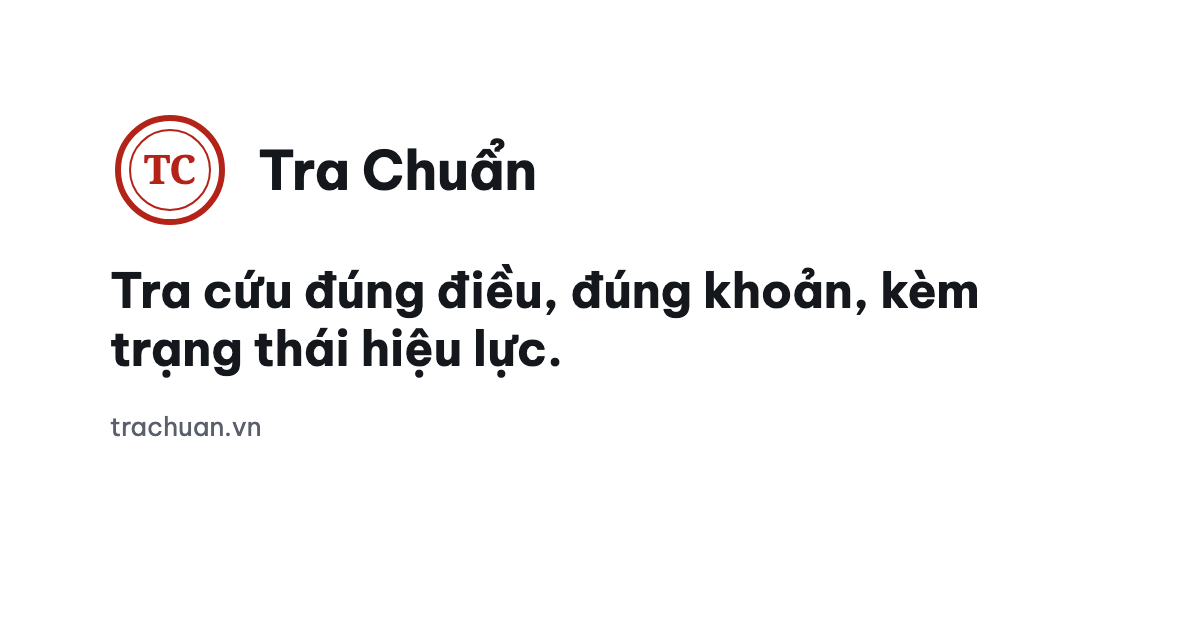
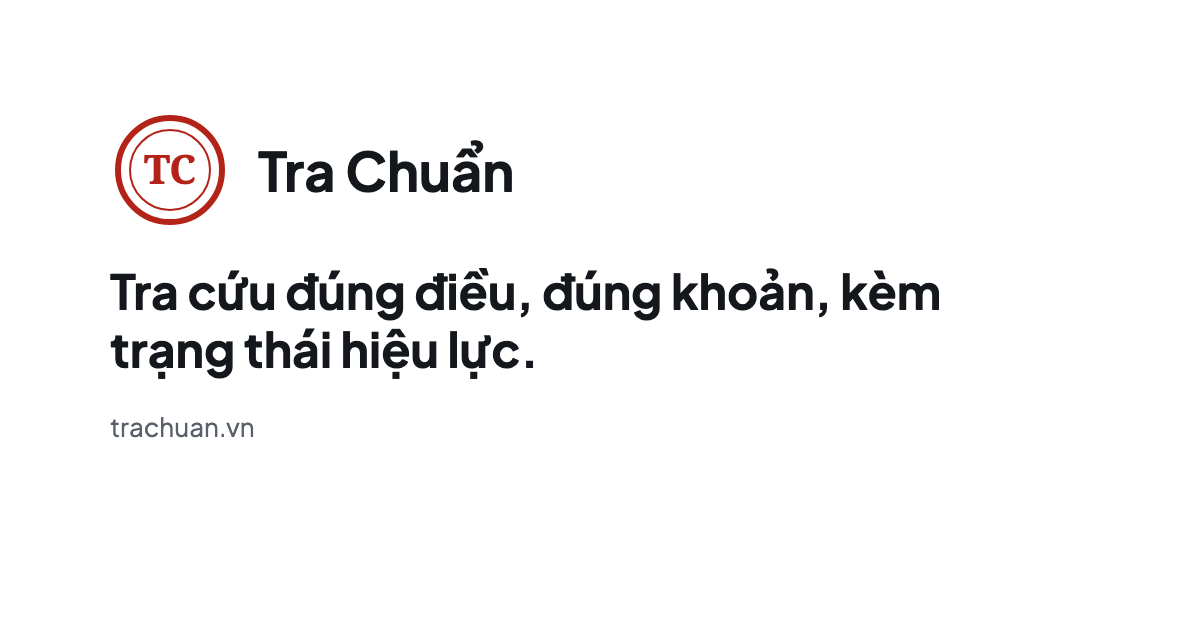
web, oauth: drop Be Vietnam Pro after the dense-screen screenshots were accepted

Changed region(s): [[0.0925, 0.4222, 0.8325, 0.6032], [0.2158, 0.2111, 0.4625, 0.3016], [0.0925, 0.6635, 0.2158, 0.6937]]

diff --git a/apps/web/public/static-page.css b/apps/web/public/static-page.css
@@ -1,7 +1,6 @@
 @font-face { font-family: PlusJakartaSans; src: url('/fonts/plus-jakarta-sans-var.woff2') format('woff2'); font-weight: 400 800; font-display: swap; }
-@font-face { font-family: BeVietnam; src: url('/fonts/be-vietnam-pro-var.woff2') format('woff2'); font-weight: 400 700; font-display: swap; }
 @font-face { font-family: NotoSerif; src: url('/fonts/noto-serif-var.woff2') format('woff2'); font-weight: 400 700; font-display: swap; }
-:root { --color-page: #FFFFFF; --color-card: #FFFFFF; --color-mist: #F1F4FA; --color-sky: #E3EAF8; --color-ink: #0F1524; --color-muted: #4D556A; --color-line: #E1E5EE; --color-control: #6F7A9B; --color-primary-fill: #1E3A8A; --color-primary-hover: #172F70; --color-primary: #1E3A8A; --color-on-primary: #FFFFFF; --color-primary-hint: #D3DCF6; --color-hero-field: #FFFFFF; --color-hero-field-ink: #0F1524; --color-hero-placeholder: #4D556A; --color-hero-pill: #FFFFFF; --color-hero-pill-ink: #1E3A8A; --color-footer: #0F1524; --color-footer-ink: #FFFFFF; --color-footer-muted: #C3CADB; --color-ring: #0F1524; --color-ring-inverse: #FFFFFF; --color-footer-ring: #FFFFFF; --color-seal: #B42318; --color-seal-footer: #E5604F; --color-danger: #B42318; --color-danger-bg: #FEF3F2; --color-danger-line: #F3C7C1; --color-highlight: #FFF1A8; --color-highlight-ink: #0F1524; --color-note-warn: #FDF6E9; --color-ink-in-force: #0B6E63; --color-stamp-in-force-bg: #E3F4F0; --color-ink-partial: #8A4B08; --color-stamp-partial-bg: #FDF1DC; --color-ink-not-yet: #1D4ED8; --color-stamp-not-yet-bg: #E4ECFE; --color-ink-expired: #4A5160; --color-stamp-expired-bg: #ECEEF1; --color-stamp-neutral-border: #6B7280; --font-sans: PlusJakartaSans, BeVietnam, sans-serif; --font-serif: NotoSerif, serif; }
+:root { --color-page: #FFFFFF; --color-card: #FFFFFF; --color-mist: #F1F4FA; --color-sky: #E3EAF8; --color-ink: #0F1524; --color-muted: #4D556A; --color-line: #E1E5EE; --color-control: #6F7A9B; --color-primary-fill: #1E3A8A; --color-primary-hover: #172F70; --color-primary: #1E3A8A; --color-on-primary: #FFFFFF; --color-primary-hint: #D3DCF6; --color-hero-field: #FFFFFF; --color-hero-field-ink: #0F1524; --color-hero-placeholder: #4D556A; --color-hero-pill: #FFFFFF; --color-hero-pill-ink: #1E3A8A; --color-footer: #0F1524; --color-footer-ink: #FFFFFF; --color-footer-muted: #C3CADB; --color-ring: #0F1524; --color-ring-inverse: #FFFFFF; --color-footer-ring: #FFFFFF; --color-seal: #B42318; --color-seal-footer: #E5604F; --color-danger: #B42318; --color-danger-bg: #FEF3F2; --color-danger-line: #F3C7C1; --color-highlight: #FFF1A8; --color-highlight-ink: #0F1524; --color-note-warn: #FDF6E9; --color-ink-in-force: #0B6E63; --color-stamp-in-force-bg: #E3F4F0; --color-ink-partial: #8A4B08; --color-stamp-partial-bg: #FDF1DC; --color-ink-not-yet: #1D4ED8; --color-stamp-not-yet-bg: #E4ECFE; --color-ink-expired: #4A5160; --color-stamp-expired-bg: #ECEEF1; --color-stamp-neutral-border: #6B7280; --font-sans: PlusJakartaSans, sans-serif; --font-serif: NotoSerif, serif; }
 @media (prefers-color-scheme: dark) {
   :root { --color-page: #0C1222; --color-card: #161E33; --color-mist: #131A2E; --color-sky: #1B2A52; --color-ink: #EEF1F8; --color-muted: #A3ABC2; --color-line: #283048; --color-control: #6F7DA3; --color-primary-fill: #3451B2; --color-primary-hover: #2C469C; --color-primary: #9DB4F5; --color-on-primary: #FFFFFF; --color-primary-hint: #D3DCF6; --color-hero-field: #EEF1F8; --color-hero-field-ink: #0F1524; --color-hero-placeholder: #4D556A; --color-hero-pill: #FFFFFF; --color-hero-pill-ink: #1E3A8A; --color-footer: #131A2E; --color-footer-ink: #EEF1F8; --color-footer-muted: #A3ABC2; --color-ring: #9DB4F5; --color-ring-inverse: #FFFFFF; --color-footer-ring: #9DB4F5; --color-seal: #E5604F; --color-seal-footer: #E5604F; --color-danger: #E5604F; --color-danger-bg: #2A1412; --color-danger-line: #5A2620; --color-highlight: #4A3F12; --color-highlight-ink: #F5ECC0; --color-note-warn: #2B2110; --color-ink-in-force: #5ED0BD; --color-stamp-in-force-bg: #0F2C28; --color-ink-partial: #F0B565; --color-stamp-partial-bg: #33230B; --color-ink-not-yet: #9DB8FF; --color-stamp-not-yet-bg: #16224A; --color-ink-expired: #B3B9C4; --color-stamp-expired-bg: #23272E; --color-stamp-neutral-border: #6B7280; }
 }

diff --git a/apps/web/tests/fonts.test.ts b/apps/web/tests/fonts.test.ts
@@ -3,7 +3,6 @@ import { expect, it } from 'vitest'
 import { authMessages } from '../i18n/auth'
 
 const families = {
-  BeVietnam: 'be-vietnam-pro-var',
   NotoSerif: 'noto-serif-var',
   RobotoMono: 'roboto-mono-var',
   GoogleSansButton: 'google-sans-button',
@@ -13,7 +12,7 @@ const families = {
 it('declares one same-origin face per family with the available weights', () => {
   for (const [path, names] of [
     ['app/assets/fonts.css', Object.keys(families)],
-    ['public/static-page.css', ['PlusJakartaSans', 'BeVietnam', 'NotoSerif']],
+    ['public/static-page.css', ['PlusJakartaSans', 'NotoSerif']],
   ] as const) {
     const css = readFileSync(path, 'utf8')
     const faces = [...css.matchAll(/@font-face\s*\{([^}]*)\}/g)].map(match => match[1]!)

diff --git a/apps/web/app/assets/fonts.css b/apps/web/app/assets/fonts.css
@@ -1,4 +1,3 @@
-@font-face { font-family: BeVietnam; src: url('/fonts/be-vietnam-pro-var.woff2') format('woff2'); font-weight: 400 700; font-display: swap; }
 @font-face { font-family: NotoSerif; src: url('/fonts/noto-serif-var.woff2') format('woff2'); font-weight: 400 700; font-display: swap; }
 @font-face { font-family: RobotoMono; src: url('/fonts/roboto-mono-var.woff2') format('woff2'); font-weight: 400 700; font-display: swap; }
 @font-face { font-family: GoogleSansButton; src: url('/fonts/google-sans-button.woff2') format('woff2'); font-weight: 500; font-display: swap; }

diff --git a/apps/web/app/assets/tokens.css b/apps/web/app/assets/tokens.css
@@ -1,5 +1,5 @@
 @theme static {
-  --font-sans: PlusJakartaSans, BeVietnam, sans-serif; --font-serif: NotoSerif, serif; --font-mono: RobotoMono, monospace;
+  --font-sans: PlusJakartaSans, sans-serif; --font-serif: NotoSerif, serif; --font-mono: RobotoMono, monospace;
   --color-page: #FFFFFF; --color-card: #FFFFFF; --color-mist: #F1F4FA; --color-sky: #E3EAF8;
   --color-ink: #0F1524; --color-muted: #4D556A; --color-line: #E1E5EE; --color-control: #6F7A9B;
   --color-primary-fill: #1E3A8A; --color-primary-hover: #172F70; --color-primary: #1E3A8A;

diff --git a/apps/web/e2e/home-identity.spec.ts b/apps/web/e2e/home-identity.spec.ts
@@ -80,7 +80,7 @@ test('other routes retain their chrome', async ({ page }) => {
   for (const path of ['/sources', '/connect']) {
     await page.goto(path)
     expect(await page.locator('html').getAttribute('data-page')).toBeNull()
-    await expect(page.locator('body')).toHaveCSS('font-family', /BeVietnam/)
+    await expect(page.locator('body')).toHaveCSS('font-family', 'PlusJakartaSans, sans-serif')
     await expect(page.locator('body')).toHaveCSS('background-color', 'rgb(255, 255, 255)')
   }
 })

diff --git a/apps/server/internal/oauth/consent_page.go b/apps/server/internal/oauth/consent_page.go
@@ -16,11 +16,11 @@ import (
 	"danny.vn/trachuan/apps/server/internal/store"
 )
 
-const consentStyles = `@font-face{font-family:"Be Vietnam Pro";src:url("/fonts/be-vietnam-pro-var.woff2") format("woff2");font-weight:100 900;font-display:swap}
+const consentStyles = `@font-face{font-family:"Plus Jakarta Sans";src:url("/fonts/plus-jakarta-sans-var.woff2") format("woff2");font-weight:400 800;font-display:swap}
 @font-face{font-family:"Roboto Mono";src:url("/fonts/roboto-mono-var.woff2") format("woff2");font-weight:100 900;font-display:swap}
 :root{--page:#FFFFFF;--surface:#F6F7F9;--card:#FFFFFF;--ink:#14171C;--ink-soft:#444B55;--muted:#59606B;--line:#E3E6EA;--line-strong:#C6CBD2;--primary:#1E3A8A;--primary-fill:#1E3A8A;--seal:#B42318;--danger:#B42318;--danger-line:#F3C7C1;--danger-bg:#FEF3F2;--note:#F1F4FA;--note-warn:#FDF6E9;--highlight:#FFF1A8;--highlight-ink:#14171C}
 @media (prefers-color-scheme: dark){:root{--page:#111418;--surface:#181C22;--card:#161A20;--ink:#E6E8EB;--ink-soft:#C4C9D1;--muted:#A0A7B2;--line:#2C323B;--line-strong:#3A414C;--primary:#9DB4F5;--primary-fill:#3451B2;--seal:#E5604F;--danger:#E5604F;--danger-line:#5A2620;--danger-bg:#2A1412;--note:#19213A;--note-warn:#2B2110;--highlight:#4A3F12;--highlight-ink:#F5ECC0}}
-*{box-sizing:border-box}html{background:var(--surface)}body{margin:0;min-height:100vh;padding:2rem 1rem;background:var(--surface);color:var(--ink);font:16px/1.6 "Be Vietnam Pro",system-ui,sans-serif}main{max-width:34rem;margin:0 auto;padding:2rem;background:var(--card);border:1px solid var(--line);border-radius:12px;overflow-wrap:anywhere}.top{display:flex;justify-content:space-between;align-items:center;gap:1rem;margin-bottom:2rem}.brand{display:inline-flex;align-items:center;gap:.5rem;font-weight:700;color:var(--ink)}.brand svg{color:var(--seal)}.toggle{display:inline-flex;align-items:center;justify-content:center;min-width:44px;min-height:44px;font-size:14px}a{color:var(--primary)}h1{font-size:1.625rem;line-height:1.3;font-weight:700;margin:0 0 1rem}dl{margin:1.5rem 0}dt{font-size:14px;color:var(--muted)}dd{margin:0 0 1rem}dd bdi,code{font-family:"Roboto Mono",ui-monospace,monospace;font-variant-ligatures:none;overflow-wrap:anywhere}.note{border:1px solid var(--line);border-radius:8px;background:var(--note-warn);color:var(--ink-soft);padding:.75rem 1rem;margin:1rem 0}.note strong{display:block;font-size:14px}.scope{display:inline-block;background:var(--highlight);color:var(--highlight-ink);border-radius:6px;padding:.15rem .5rem}.scope-label,.error-code{font-size:14px;color:var(--muted)}.actions{display:flex;gap:.75rem;margin-top:1.5rem}button,.button{display:inline-flex;align-items:center;justify-content:center;min-height:44px;padding:.6rem 1.25rem;border:1px solid var(--primary-fill);border-radius:8px;font:inherit;font-weight:600;text-decoration:none;cursor:pointer}.primary{background:var(--primary-fill);color:#FFFFFF}.secondary{background:var(--card);border-color:var(--line-strong);color:var(--ink)}a:focus-visible,button:focus-visible{outline:3px solid var(--primary);outline-offset:3px}@media(max-width:390px){body{padding:1rem}main{padding:1.25rem}.actions{flex-direction:column}.actions button{width:100%}}`
+*{box-sizing:border-box}html{background:var(--surface)}body{margin:0;min-height:100vh;padding:2rem 1rem;background:var(--surface);color:var(--ink);font:16px/1.6 "Plus Jakarta Sans",system-ui,sans-serif}main{max-width:34rem;margin:0 auto;padding:2rem;background:var(--card);border:1px solid var(--line);border-radius:12px;overflow-wrap:anywhere}.top{display:flex;justify-content:space-between;align-items:center;gap:1rem;margin-bottom:2rem}.brand{display:inline-flex;align-items:center;gap:.5rem;font-weight:700;color:var(--ink)}.brand svg{color:var(--seal)}.toggle{display:inline-flex;align-items:center;justify-content:center;min-width:44px;min-height:44px;font-size:14px}a{color:var(--primary)}h1{font-size:1.625rem;line-height:1.3;font-weight:700;margin:0 0 1rem}dl{margin:1.5rem 0}dt{font-size:14px;color:var(--muted)}dd{margin:0 0 1rem}dd bdi,code{font-family:"Roboto Mono",ui-monospace,monospace;font-variant-ligatures:none;overflow-wrap:anywhere}.note{border:1px solid var(--line);border-radius:8px;background:var(--note-warn);color:var(--ink-soft);padding:.75rem 1rem;margin:1rem 0}.note strong{display:block;font-size:14px}.scope{display:inline-block;background:var(--highlight);color:var(--highlight-ink);border-radius:6px;padding:.15rem .5rem}.scope-label,.error-code{font-size:14px;color:var(--muted)}.actions{display:flex;gap:.75rem;margin-top:1.5rem}button,.button{display:inline-flex;align-items:center;justify-content:center;min-height:44px;padding:.6rem 1.25rem;border:1px solid var(--primary-fill);border-radius:8px;font:inherit;font-weight:600;text-decoration:none;cursor:pointer}.primary{background:var(--primary-fill);color:#FFFFFF}.secondary{background:var(--card);border-color:var(--line-strong);color:var(--ink)}a:focus-visible,button:focus-visible{outline:3px solid var(--primary);outline-offset:3px}@media(max-width:390px){body{padding:1rem}main{padding:1.25rem}.actions{flex-direction:column}.actions button{width:100%}}`
 
 func WriteRateLimitedPage(w http.ResponseWriter, r *http.Request, retryAfter time.Duration) {
 	seconds := max(1, int64(math.Ceil(retryAfter.Seconds())))

diff --git a/apps/server/internal/oauth/consent_test.go b/apps/server/internal/oauth/consent_test.go
@@ -524,7 +524,7 @@ func TestConsent_FontFaces(t *testing.T) {
 	path, cookie := pendingConsent(t, d)
 	body := consentResponse(d, consentRequest(path, "GET", cookie, true, nil)).Body.String()
 	for _, want := range []string{
-		`@font-face{font-family:"Be Vietnam Pro";src:url("/fonts/be-vietnam-pro-var.woff2") format("woff2");font-weight:100 900;font-display:swap}`,
+		`@font-face{font-family:"Plus Jakarta Sans";src:url("/fonts/plus-jakarta-sans-var.woff2") format("woff2");font-weight:400 800;font-display:swap}`,
 		`@font-face{font-family:"Roboto Mono";src:url("/fonts/roboto-mono-var.woff2") format("woff2");font-weight:100 900;font-display:swap}`,
 	} {
 		if !strings.Contains(body, want) {

diff --git a/scripts/instance_fonts.py b/scripts/instance_fonts.py
@@ -6,10 +6,6 @@ from fontTools.varLib.instancer import AxisTriple, instantiateVariableFont
 
 
 FINGERPRINTS = {
-    "be-vietnam-pro-var": (
[2 lines of base64/hex data omitted]
-    ),
     "noto-serif-var": (
[2 lines of base64/hex data omitted]

diff --git a/docs/plans/2026-11-16-family-identity.md b/docs/plans/2026-11-16-family-identity.md
@@ -28,7 +28,7 @@ Each stage owns every copy change and every existing test whose behaviour it cha
 |-|-|-|-|-|
 | 1 Home | Tokens and Plus Jakarta Sans scoped to the home route; the navy hero with its field, pills, suggestions, checkbox and focus ring; the home composition of `docs/design/web-visual.md` "Home" (sample result over the panel edge, facts as hairline rows on `mist`, coverage on white, connect, the `sky` maker panel with the two WebP files); copy in `i18n/home.ts` | `e2e/home.spec.ts:31` and `tests/home.test.ts:31`, `:38` (sign-in hint); `e2e/home.spec.ts:49-53` (the hero stops being a full-width band); `tests/home-sample.test.ts:38` (the link line no longer contains "vbpl.vn"; the conditional-link test stays, keyed to the new line); `tests/fonts.test.ts:15`, `:24`, `:39` become family-specific: the Plus Jakarta Sans face declares and may use 400 to 800, Be Vietnam Pro, Noto Serif and Roboto Mono keep `400 700` (`app/assets/fonts.css:1-3`), and no rule outside the Plus Jakarta face goes above 700 | Token test: reads the tokens file and asserts every value in both themes and every pair of the contrast table in `docs/design/web-visual.md` at its minimum. Copy test on `i18n/home.ts`. Playwright on home at 360, 390, 768, 1024, 1366, light and dark: no horizontal scroll, panel radius per breakpoint, pills at least 44 px, the sample card fully visible and over the panel edge, `hero-field` fill and the white focus ring, no transitions under reduced motion, axe clean | all checks green |
 | 2 Chrome | Global tokens (ink, neutrals, `mist` and `sky` replacing `surface` and `note`, `control`, rings, radii, pills); `theme-color`; header (navy sign-in pill, active state); the footer band and its focus ring; sign-in pages, account, connect, sources, topics and legal pages; `public/static-page.css`; copy in `i18n/shell.ts`, `pages.ts`, `auth.ts`, `account.ts`, `vi.ts` and `en.ts` (unavailable), `server/utils/not-found.ts`; delete `loginGoogle` and `legalQuestions`; stack `'Plus Jakarta Sans', BeVietnam, sans-serif`; the re-sign-in notice and resume of `docs/design/web.md` account security, with its copy in `i18n/auth.ts` and `/login`; ships within one release of stage 1 | `tests/display-name.test.ts:30` (login h1); `tests/static-page.test.ts:6-7`, `tests/response-security.test.ts:135`, `:240`, `tests/topic-render.test.ts:52` (404 text); `tests/unavailable-page.test.ts:24`, `tests/topic-render.test.ts:55`, `:89`, `:124`, `e2e/topic-navigation.spec.ts:43` (unavailable text); `e2e/search-states.spec.ts:58` (unavailable title); `e2e/reader-design.spec.ts:14` dark value (the dark target surface is `var(--color-surface)`); `e2e/responsive-sweep.spec.ts`, `layout.spec.ts`, `pages-layout.spec.ts`, `auth-pages.spec.ts`, account specs; `e2e-stack/accessibility.spec.ts` in both themes | Token test widened to global tokens; a parity test of `static-page.css` against the tokens in both themes; copy test widened to the files above; Playwright for the re-sign-in notice (no navigation before the button, the `/login` reason line, resume of each action, an unknown reason and an action older than 10 minutes ignored); a sweep of the restyled pages at 360, 390, 768 and 1366 in both themes | Screenshots of Vietnamese at 12 to 14 px on the search filters, result card head and reader rail, light and dark, accepted by the leader; then a follow-up PR removes the Be Vietnam Pro file and fallback and updates `tests/fonts.test.ts:5-10`, `:15`, `:24` and `public/static-page.css` |
-| 3 Dense screens | Search and reader: serif provision headings, pill controls and relation chips, 16 px cards, the target on `mist` with the navy rule; copy in `i18n/search.ts`; arrows in `i18n/reader.ts:4-5`, `:10-11` and `app/components/ResultCard.vue:96` replaced by icons | `e2e/search-states.spec.ts:21`, `:25`; `tests/i18n.test.ts:26`; `e2e/reader-design.spec.ts:14` light value; `e2e/search-layout.spec.ts` | Stamp and highlight pairs in the token test; copy test widened to `search.ts` and `reader.ts`; sweep 360 to 1366 in both themes | all checks green |
+| 3 Dense screens | Search and reader: serif provision headings, pill controls and relation chips, 16 px cards, the target on `mist` with the navy rule; the filter load error's "Thử lại" as an underlined text button; copy in `i18n/search.ts`; arrows in `i18n/reader.ts:4-5`, `:10-11` and `app/components/ResultCard.vue:96` replaced by icons | `e2e/search-states.spec.ts:21`, `:25`; `tests/i18n.test.ts:26`; `e2e/reader-design.spec.ts:14` light value; `e2e/search-layout.spec.ts` | Stamp and highlight pairs in the token test; copy test widened to `search.ts` and `reader.ts`; sweep 360 to 1366 in both themes | all checks green |
 
 The home `og:description` and per-page head tags belong to the discovery work, not to this plan.
 

diff --git a/docs/design/web-visual.md b/docs/design/web-visual.md
@@ -88,10 +88,9 @@ takes the text colour of its ground.
 Fonts are self-hosted woff2 with `font-display: swap`; the CSP keeps
 `font-src 'self'`. Plus Jakarta Sans ships with its OFL licence and covers
 U+1EA0 to U+1EF9, Đ đ Ơ ơ Ư ư Ă ă, U+20AB and the Vietnamese combining marks.
-Its stack is `'Plus Jakarta Sans', BeVietnam, sans-serif` until screenshots of
-12 to 14 px Vietnamese on the search filters, result card head and reader rail
-are accepted in both themes; then Be Vietnam Pro is removed. Only the Plus
-Jakarta Sans face goes above 700; Noto Serif and Roboto Mono declare 400 to 700.
+Its stack is `'Plus Jakarta Sans', sans-serif` on every page, the static error
+pages and the OAuth consent page; there is no second sans. Only the Plus Jakarta
+Sans face goes above 700; Noto Serif and Roboto Mono declare 400 to 700.
 
 ## Home
 

diff --git a/docs/adr/0018-family-visual-identity.md b/docs/adr/0018-family-visual-identity.md
@@ -118,3 +118,6 @@ The rules live in [web visual system](../design/web-visual.md) and
   one wording, kept navy as Tra Chuẩn's brand colour with the seal and danger
   red unchanged, and approved the maker panel with his picture, name and link to
   aboutme.vn/danny. Reviewed by gpt-6.1-sol in two rounds.
+- 2026-11-17: the screenshots of 12 to 14 px Vietnamese on the dense screens
+  were accepted in both themes, and Be Vietnam Pro was removed from the website,
+  the static error pages and the OAuth consent page.
